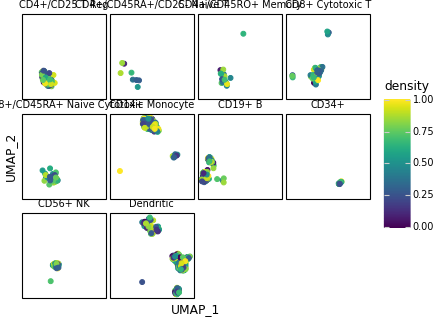
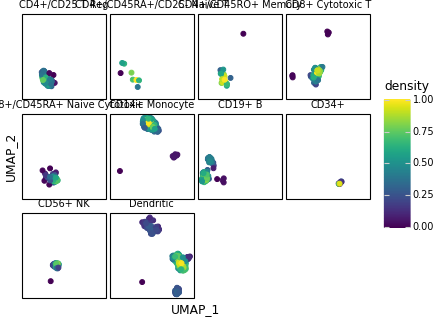
fix: plot_embedding_density assigned densities in the wrong cell order (#20)
The grouped branch did `df.groupby(group_by).apply(_density).to_numpy()`.
groupby-apply concatenates results in group-sorted order, so `.to_numpy()`
(positional) assigned each cell a density belonging to a different cell
whenever groups are interleaved in obs order — which is the normal case. The
per-panel colours were scrambled; the fix reindexes back to df's cell order
before assigning.

The prior test only asserted density ∈ [0, 1], which a fully scrambled result
still satisfies. Replace it with a sharp discriminator: a degenerate 2-cell
group B (KDE needs >2 points) must have density exactly 0; a positional
misassignment lands nonzero A densities on the B rows and fails. Also re-render
the API example image (now shows clean per-cluster gradients).

Claude-Session: https://claude.ai/code/session_015HrvqstMUbu3ZNVDuzbbLV

diff --git a/tests/test_missing_plots.py b/tests/test_missing_plots.py
@@ -34,6 +34,38 @@ def test_embedding_density_grouped_and_pooled(adata, group_key):
         plot._build()
 
 
+def test_embedding_density_assigns_each_cell_its_own_density(group_key):
+    """Each cell's density must come from its OWN group, in cell order. A
+    degenerate 2-cell group B has density exactly 0 (KDE needs >2 points); if the
+    grouped result is assigned positionally instead of by index, those zeros land
+    on the wrong (interleaved) rows and the B cells pick up nonzero A densities."""
+    import anndata as ad_mod
+    import numpy as np
+    import pandas as pd
+
+    rng = np.random.RandomState(0)
+    n = 42
+    groups = np.array(["A"] * n, dtype=object)
+    groups[1] = groups[3] = "B"  # two B cells, interleaved among the A cells
+    coords = rng.normal(0, 0.05, (n, 2))  # tight A blob
+    coords[[1, 3]] = [[10.0, 10.0], [10.1, 9.9]]  # B lives far away
+    coords[20] = [5.0, 5.0]  # an A outlier, for the secondary check
+    adata = ad_mod.AnnData(
+        X=rng.normal(size=(n, 3)),
+        obs=pd.DataFrame({group_key: pd.Categorical(groups)}, index=[f"c{i}" for i in range(n)]),
+    )
+    adata.obsm["X_umap"] = coords
+    d = ag.plot_embedding_density(adata, "umap", group_key).data
+
+    # the degenerate B group must be exactly 0 everywhere (the sharp discriminator)
+    assert (d.loc[d[group_key] == "B", "density"] == 0).all()
+    # and within A, the far outlier is less dense than the blob median
+    a = d[d[group_key] == "A"]
+    xcol = next(c for c in d.columns if str(c).startswith("UMAP"))
+    outlier = a.loc[a[xcol].idxmax()]
+    assert outlier["density"] < a.drop(index=outlier.name)["density"].median()
+
+
 def test_heatmap_builds_and_scales(adata, markers, group_key):
     plain = ag.plot_heatmap(adata, markers, group_key, use_raw=True)
     scaled = ag.plot_heatmap(adata, markers, group_key, use_raw=True, standard_scale="var")

diff --git a/src/ggann/plots.py b/src/ggann/plots.py
@@ -520,9 +520,10 @@ def plot_embedding_density(
     else:
         gcol = resolve_frame(adata, [group_by])[[group_by]]
         df = coords.join(gcol)
-        df["density"] = (
-            df.groupby(group_by, observed=True, group_keys=False).apply(_density).to_numpy()
-        )
+        # groupby(...).apply concatenates in group-sorted order, so reindex back
+        # to df's cell order (a bare .to_numpy() would misalign interleaved groups)
+        per_group = df.groupby(group_by, observed=True, group_keys=False).apply(_density)
+        df["density"] = per_group.reindex(df.index).to_numpy()
         cats = _group_categories(adata, group_by)
         df = _order_groups(df, group_by, cats)
         plot = (